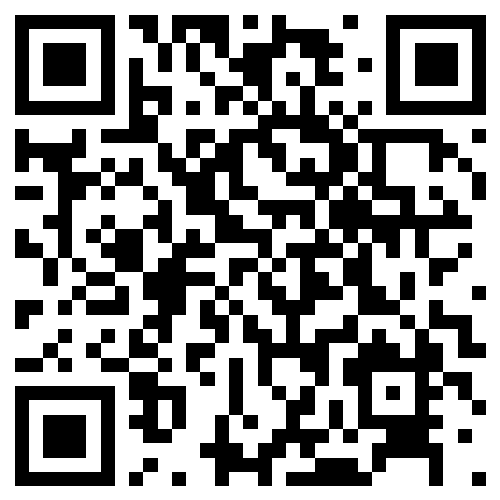
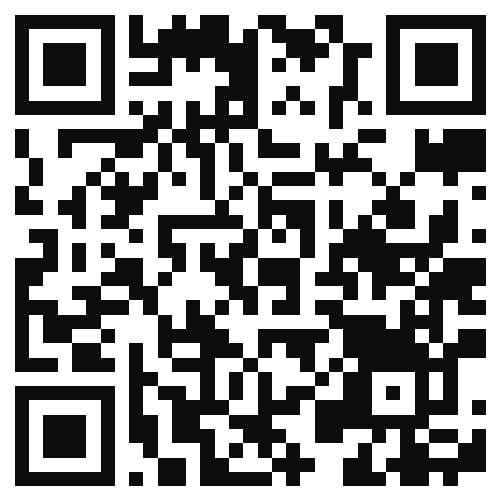
Update KISA donation URL in constants and replace donation QR asset

diff --git a/src/shared/constants.ts b/src/shared/constants.ts
@@ -37,5 +37,5 @@ export const LANDING_PAGE_URL = "https://flatflowextension.netlify.app/";
 
 /** KISA donation page for FlatFlow (scan QR or open link). */
 export const KISA_DONATE_URL =
-  "https://www.kisa.ge/donate/m2BNn6re85DU17Na1RR4";
+  "https://www.kisa.ge/donate/pydxz4QnCDjyBtX2UULp";
 
